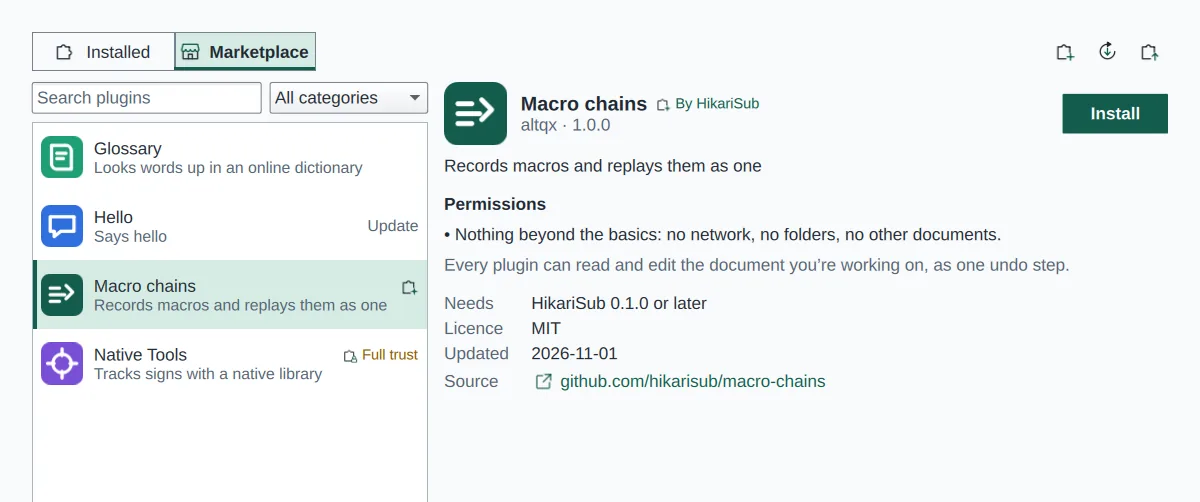
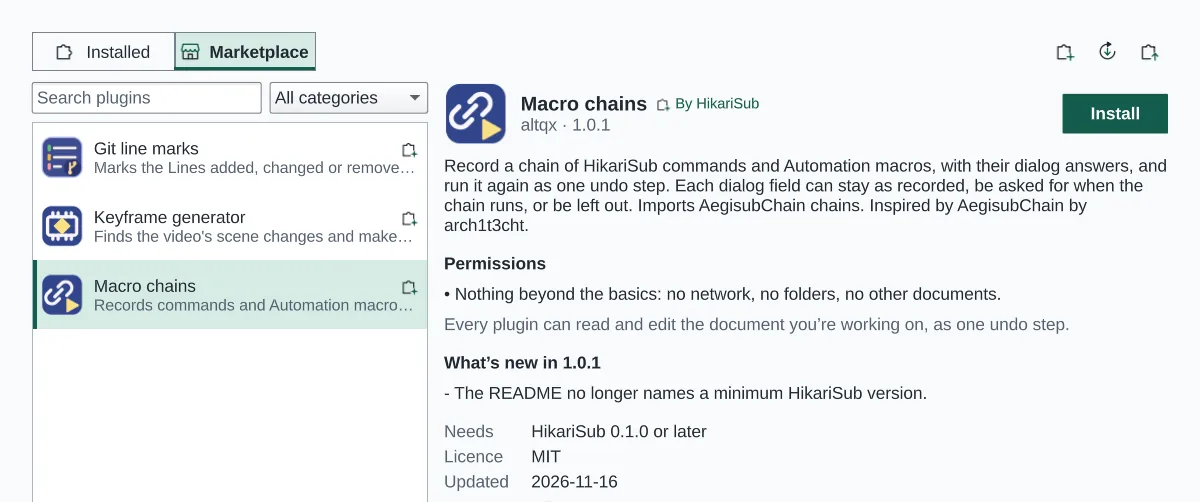
Homepage: CX7's retakes of the windows, plugins and AI review tiles
Windows waits for both windows to finish loading. Plugins shows the live
marketplace with Macro chains 1.0.1 selected. AI review now reads "1 change to
review". The alt texts for windows and plugins follow the new pictures.

diff --git a/src/routes/$lang/index.tsx b/src/routes/$lang/index.tsx
@@ -136,7 +136,7 @@ const plusTiles: (Tile & { image: { light: string; dark: string; alt: string } }
     image: {
       light: windowsLight,
       dark: windowsDark,
-      alt: 'Two HikariSub windows on one desktop: Sprite Fright.ass in the Editing layout and Sprite Fright signs.ass in the Typesetting layout, each playing its own frame of the video.',
+      alt: 'Two HikariSub windows on one desktop: Sprite Fright.ass in the Editing layout, and Sprite Fright signs.ass in the Typesetting layout with its sign "Brambleden Woods", each on its own frame of the video.',
     },
     guide: 'customize/layouts#windows',
     more: 'Several windows',
@@ -202,7 +202,7 @@ const plusTiles: (Tile & { image: { light: string; dark: string; alt: string } }
     image: {
       light: pluginsLight,
       dark: pluginsDark,
-      alt: "The plugin manager's Marketplace tab with Macro chains selected: By HikariSub, its permissions, and the Needs, Licence, Updated and Source rows, with an Install button.",
+      alt: "The plugin manager's Marketplace tab listing Git line marks, Keyframe generator and Macro chains. Macro chains 1.0.1 is selected: By HikariSub, what it does, its permissions, what's new, and the Needs, Licence and Updated rows, with an Install button.",
     },
     guide: 'plugins/using-plugins',
     more: 'Plugins',
